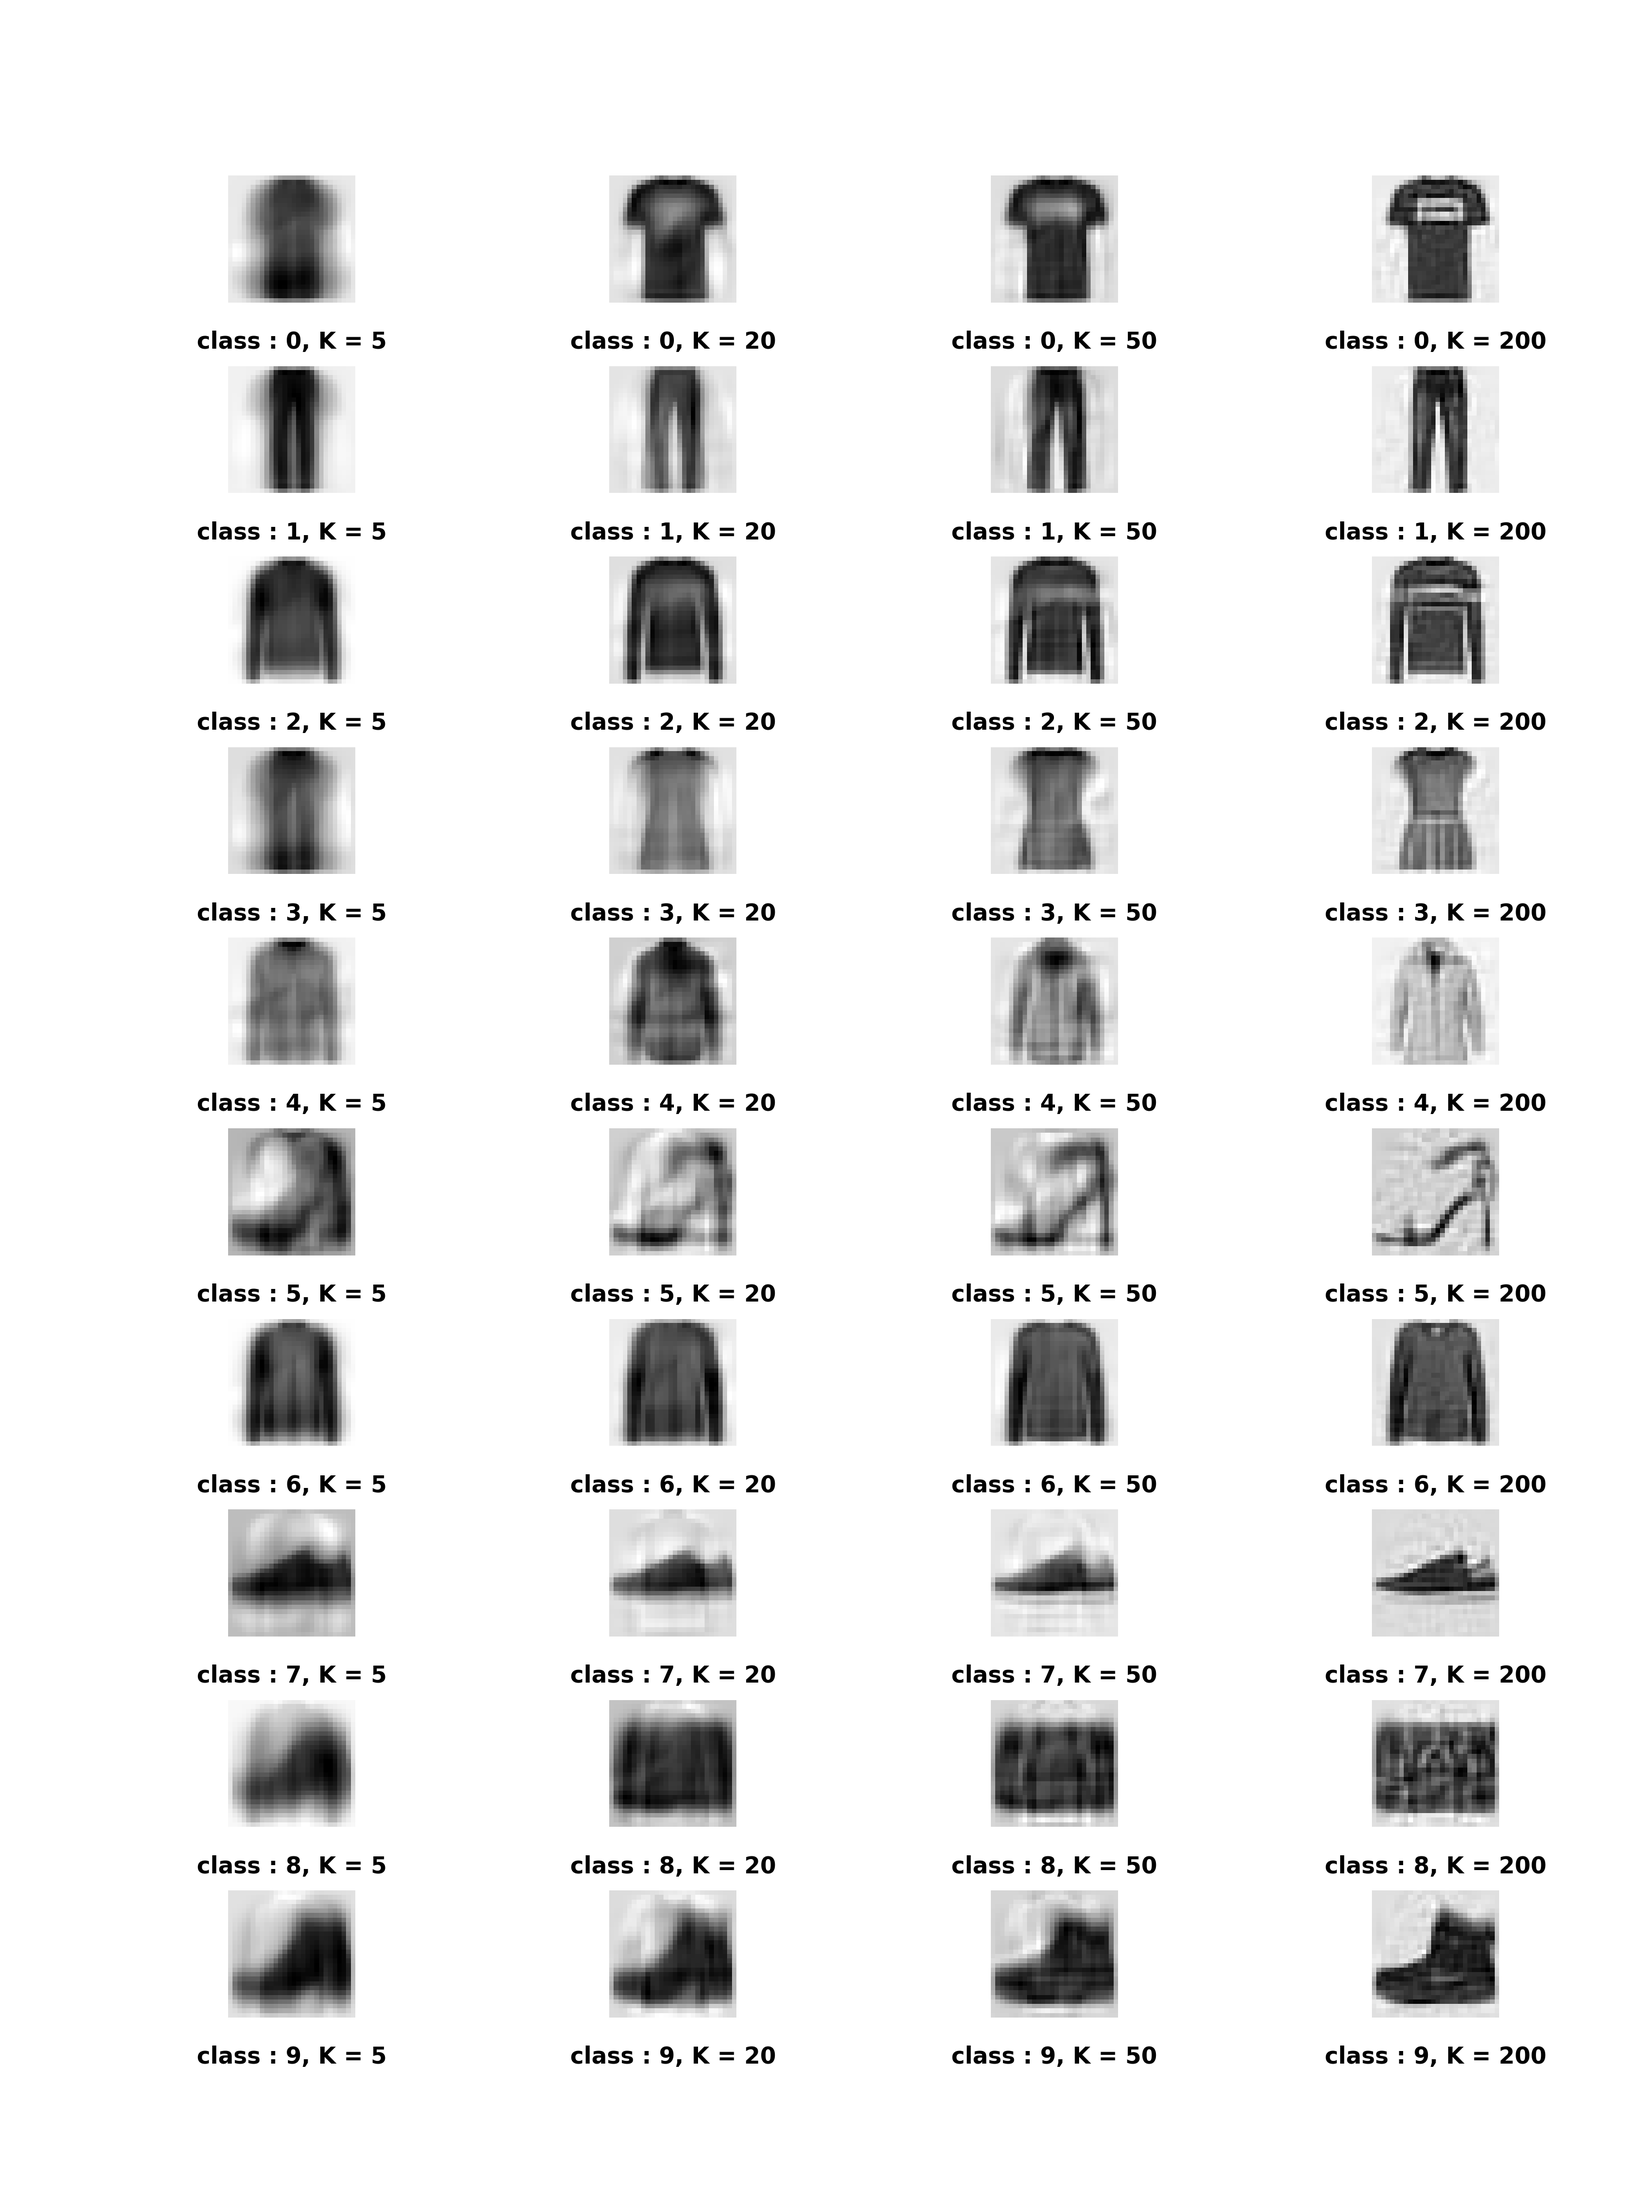
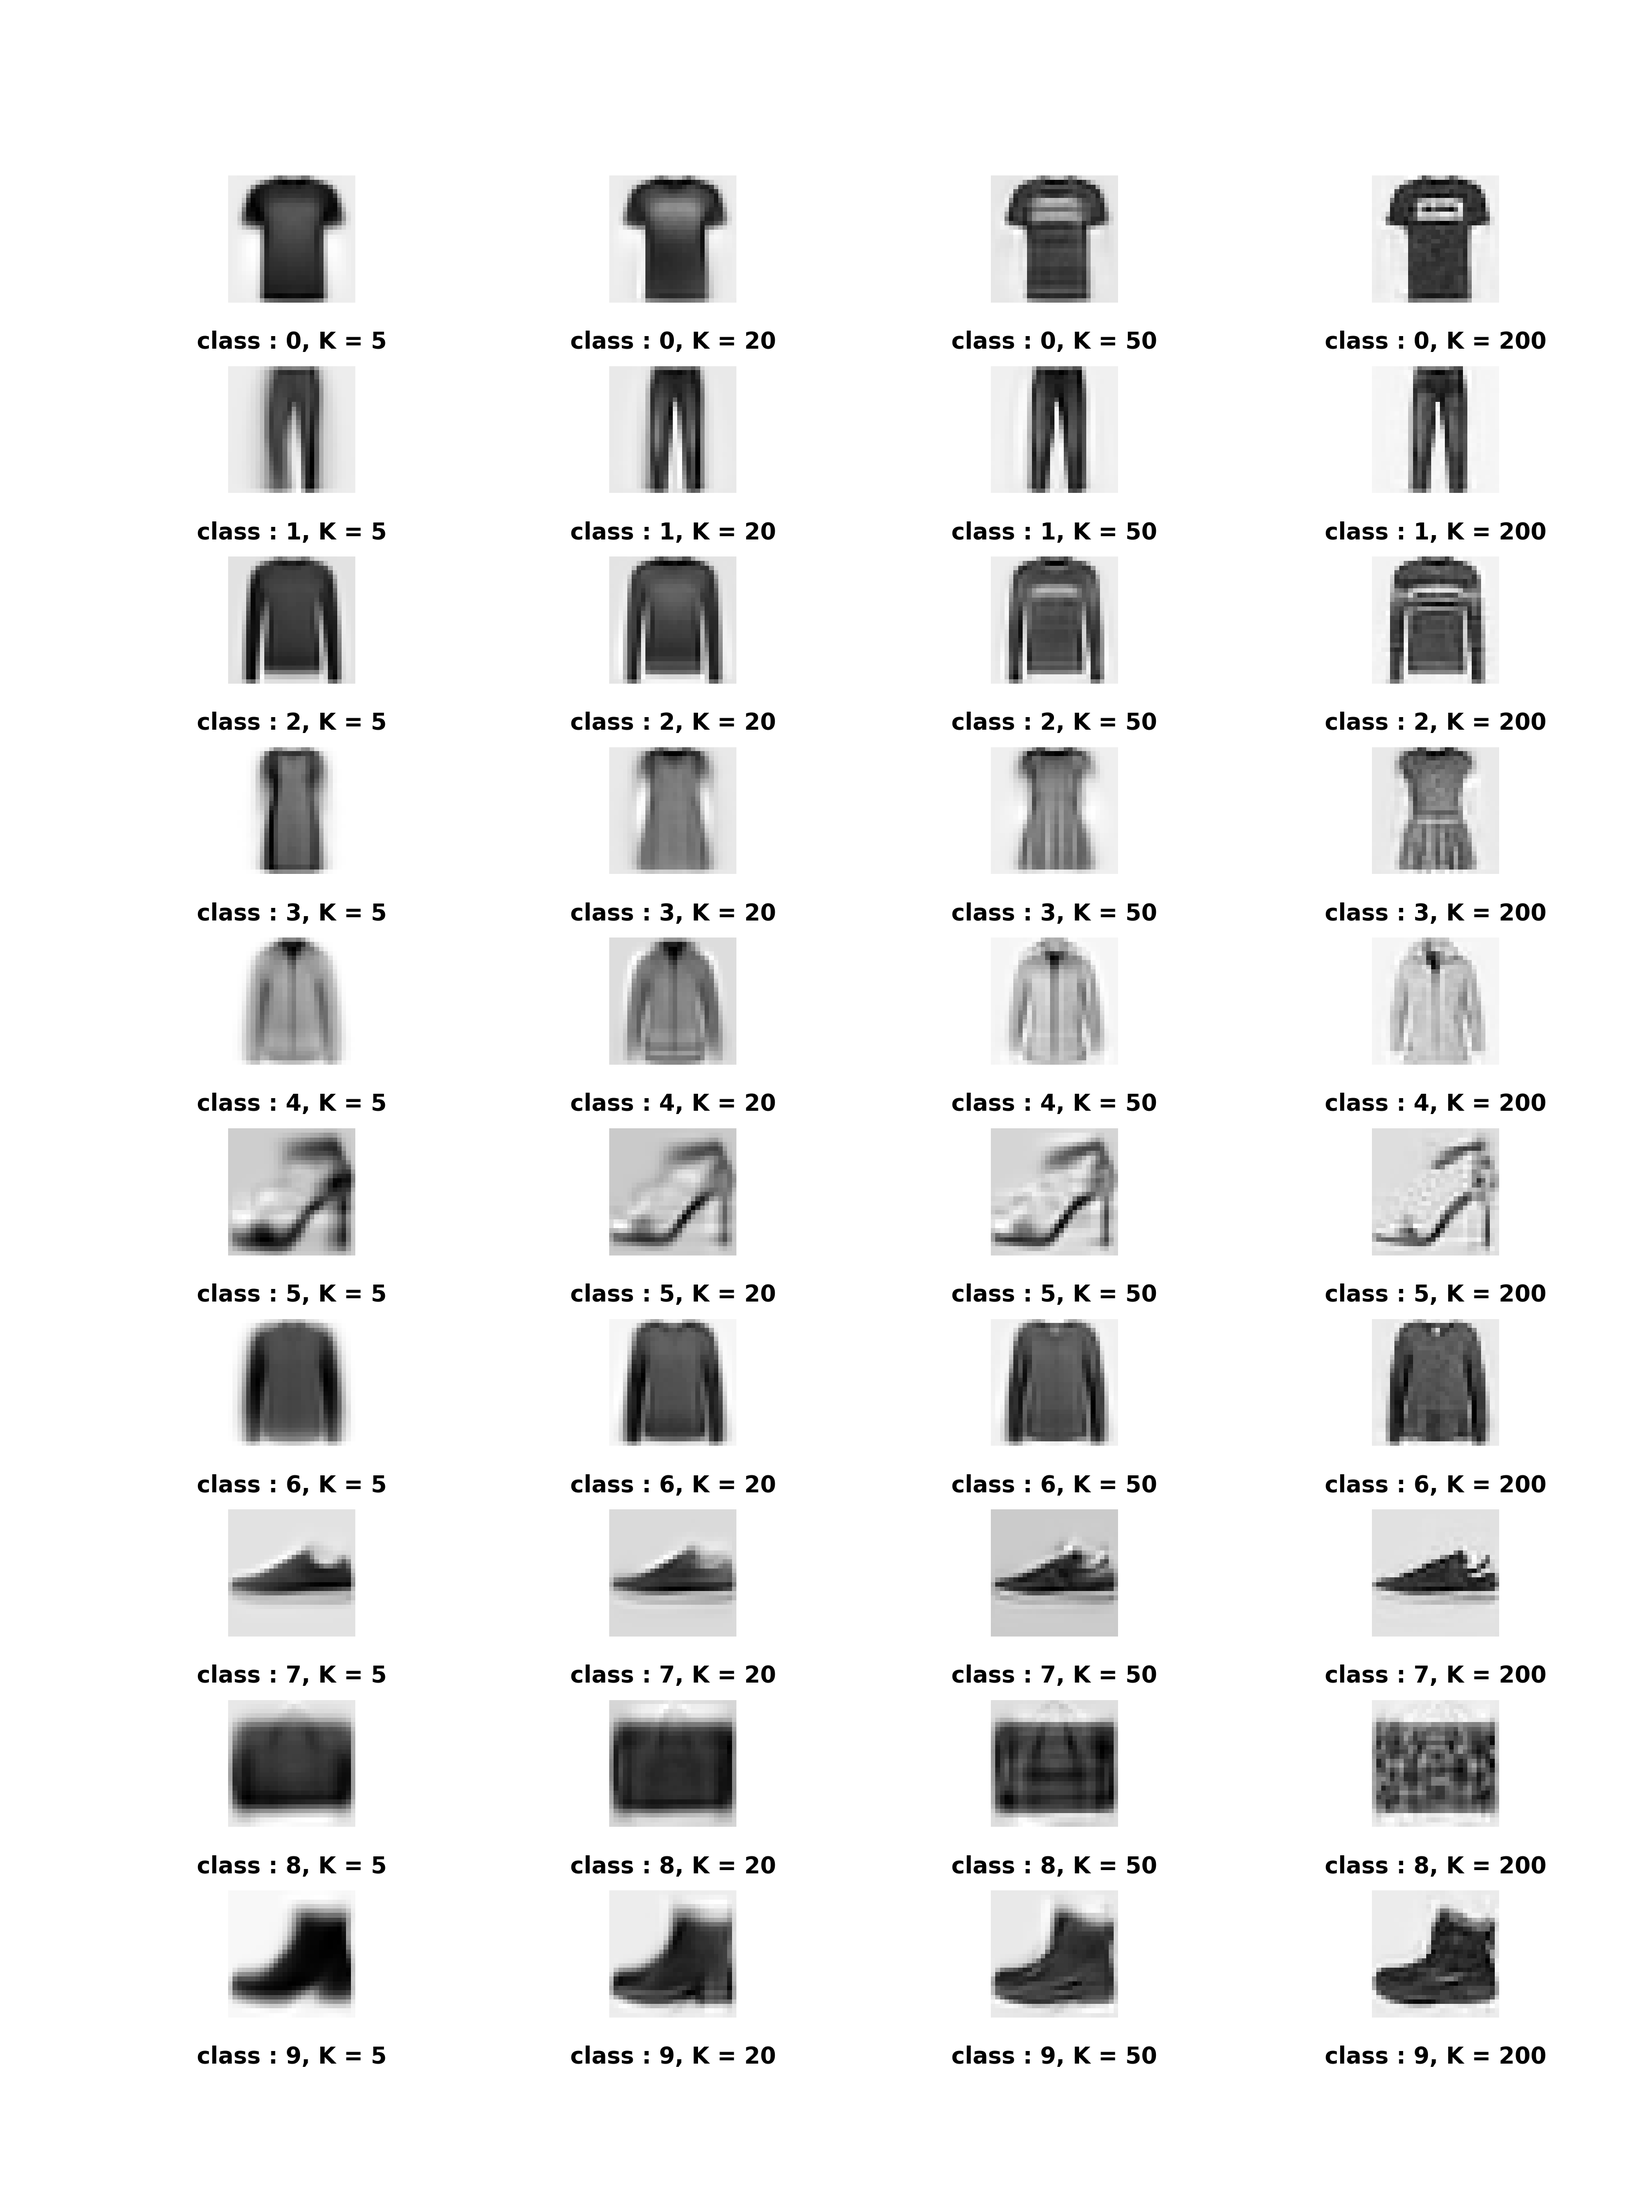
Add files via upload

diff --git a/IAML_CW2/iaml01cw2_q3.py b/IAML_CW2/iaml01cw2_q3.py
@@ -18,6 +18,7 @@ import matplotlib.pyplot as plt
 import seaborn as sns
 from iaml01cw2_helpers import *
 import os
+import pandas as pd
 
 from sklearn.cluster import KMeans
 from sklearn.decomposition import PCA
@@ -62,6 +63,7 @@ def iaml01cw2_q3_1():
 
 # Q3.2
 def iaml01cw2_q3_2():
+
     mean_vector = []
 
     for j in range(22):
@@ -70,42 +72,60 @@ def iaml01cw2_q3_2():
         mean_vector.append(list(temp.mean(axis = 0)))
     mean_vector = np.array(mean_vector) # mean vector of each class (22, 26)
 
-
-    pca = PCA(n_components=2)
+    kmeans = KMeans(n_clusters=22, random_state=1).fit(Xtrn)
+    centers = kmeans.cluster_centers_
     
 
-    kmeans = KMeans(n_clusters=22, random_state=1).fit(Xtrn)
-
+    pca = PCA(n_components=2)
     zz = pca.fit_transform(mean_vector) # PCA on mean vector 
-
-
-
-    centers = kmeans.cluster_centers_
     center_ = pca.transform(centers)
-    plt.figure(figsize=(10,10))
+    lang =[i for i in range(22)]
 
-
-
-
-    plt.scatter(center_[:, 0], center_[:, 1], c='blue', s= 1)
-    plt.scatter(zz[:, 0], zz[:, 1], c='red',s = 1)
-
+    # ------- plot --------#
+    plt.figure(figsize=(15,15))
+    plt.scatter(center_[:, 0], center_[:, 1], c='blue', label ='cluster centers', s = 12)
+    for i in range(center_.shape[0]):
+        plt.annotate(lang[i],xy = (center_[i, 0], center_[i, 1]),xytext = (center_[i, 0]+0.01, center_[i, 1]+0.01), color = 'blue', size = 16)
+    plt.scatter(zz[:, 0], zz[:, 1], c='red', label = 'mean vectors', s= 12)
+    for i in range(zz.shape[0]):
+        plt.annotate(lang[i],xy = (zz[i, 0], zz[i, 1]),xytext = (zz[i, 0]+0.01, zz[i, 1]+0.01), color = 'red', size = 16)
+    plt.xlabel('Principal Component 1', fontsize = 20)
+    plt.ylabel('Principal Component 2', fontsize = 20)
+    plt.legend()
     plt.savefig("IAML_CW2_Q3_2.png")
     plt.show()
 
 #
-iaml01cw2_q3_2()   # comment this out when you run the function
+#iaml01cw2_q3_2()   # comment this out when you run the function
 
 # Q3.3
 def iaml01cw2_q3_3():
+
+    # read file
+    file_path = os.path.join(os.getcwd(), 'data')
+    lang = pd.read_csv(file_path + '/languages.txt',header = None, sep= ' ')
+    lang_label = []
+    # add appropriate labels
+    for i in range(22):
+        if i <10:
+            lang_label.append(lang.iloc[i,2])
+        else:
+            lang_label.append(lang.iloc[i,1])
+
+    
+
+    
     mean_vector = []
+    
     for j in range(22):
         temp = Xtrn[np.where(Ytrn == j)]
         mean_vector.append(list(temp.mean(axis = 0)))
     mean_vector = np.array(mean_vector) # mean vector of each class (22, 26)
-    
+    plt.figure(figsize=(10,10))
     Z = sch.linkage(mean_vector, method =  'ward')
-    p = sch.dendrogram(Z, orientation='right')
+    p = sch.dendrogram(Z, orientation='right', labels= lang_label)
+    plt.xlabel("distance (Ward)", fontsize = 20)
+    plt.ylabel("Languages", fontsize = 20)
     plt.savefig('IAML_CW2_Q3_3.png')
     
     plt.show()
@@ -115,7 +135,23 @@ def iaml01cw2_q3_3():
 
 # Q3.4
 def iaml01cw2_q3_4():
-    kmeans = KMeans(n_clusters=3, random_state=1)
+
+    # read file
+    file_path = os.path.join(os.getcwd(), 'data')
+    lang = pd.read_csv(file_path + '/languages.txt',header = None, sep= ' ')
+    lang_label = []
+    # add appropriate labels
+    for i in range(22):
+        if i <10:
+            for k in range(3):
+                lang_label.append(lang.iloc[i,3] + ' ' + str(k))
+        else:
+            for k in range(3):
+                lang_label.append(lang.iloc[i,2] + '' + str(k))
+
+    print(lang_label)
+
+    kmeans = KMeans(n_clusters=3, random_state=1) # apply k-Means algorithm
     clusters = []
     for i in range(22):
         kmeans.fit(Xtrn[np.where(Ytrn == i)])
@@ -123,28 +159,34 @@ def iaml01cw2_q3_4():
             clusters.append(kmeans.cluster_centers_[j,:])
     clusters = np.array(clusters)
     print(clusters)
-    plt.figure(figsize=(20,20))
+    plt.figure(figsize=(13,5))
     Z = sch.linkage(clusters, method = 'ward')
-    p = sch.dendrogram(Z)
-    plt.savefig("Q3_4_ward.png")
+    p = sch.dendrogram(Z, labels=lang_label,leaf_rotation=45)
+    plt.xlabel('Language Cluster Centers', fontsize = 10)
+    plt.ylabel('distance (ward)', fontsize = 15)
+    plt.savefig("IAML_CW2_Q3_4_ward.png")
     plt.show()
     
-    plt.figure(figsize=(20,20))
+    plt.figure(figsize=(13,5))
     Z = sch.linkage(clusters, method = 'single')
-    p = sch.dendrogram(Z)
-    plt.savefig("Q3_4_single.png")
+    p = sch.dendrogram(Z, labels=lang_label,leaf_rotation=45)
+    plt.xlabel('Language Cluster Centers', fontsize = 10)
+    plt.ylabel('distance (single)', fontsize = 15)
+    plt.savefig("IAML_CW2_Q3_4_single.png")
     plt.show()
     
-    plt.figure(figsize=(20,20))
+    plt.figure(figsize=(13,5))
     Z = sch.linkage(clusters, method = 'complete')
-    p = sch.dendrogram(Z)
-    plt.savefig("Q3_4_complete.png")
+    p = sch.dendrogram(Z, labels=lang_label,leaf_rotation=45)
+    plt.xlabel('Language Cluster Centers', fontsize = 10)
+    plt.ylabel('distance (complete)', fontsize = 15)
+    plt.savefig("IAML_CW2_Q3_4_complete.png")
     plt.show()
     
 
 
 #
-#iaml01cw2_q3_4()   # comment this out when you run the function
+iaml01cw2_q3_4()   # comment this out when you run the function
 
 # Q3.5
 def iaml01cw2_q3_5():

diff --git a/IAML_CW2/iaml01cw2_q1.py b/IAML_CW2/iaml01cw2_q1.py
@@ -1,14 +1,5 @@
 
-##########################################################
-#  Python script template for Question 1 (IAML Level 10)
-#  Note that
-#  - You should not change the filename of this file, 'iaml01cw2_q1.py', which is the file name you should use when you submit your code for this question.
-#  - You should define the functions shown below in your code.
-#  - You can define function arguments (parameters) and returns (attributes) if necessary.
-#  - In case you define helper functions, do not define them here, but put them in a separate Python module file, "iaml01cw2_my_helpers.py", and import it in this script.
-#  - For those questions requiring you to show results in tables, your code does not need to present them in tables - just showing them with print() is fine.
-#  - You do not need to include this header in your submission
-##########################################################
+
 
 #--- Code for loading the data set and pre-processing --->
 import numpy as np
@@ -77,11 +68,11 @@ def iaml01cw2_q1_2():
         
         temp = []
         for j in range(record.shape[1] ):
-            mean_vec = mean_vec + Xtrn_nm[record[i][j],:]
+            mean_vec = mean_vec + Xtrn[record[i][j],:]
         mean_vec = mean_vec / record.shape[1]
         vector.append(mean_vec)
         for j in range(record.shape[1]):
-            a = np.linalg.norm(Xtrn_nm[record[i][j],:]-mean_vec) ### This is much faster than self-defined eucildean distance function
+            a = np.linalg.norm(Xtrn[record[i][j],:]-mean_vec) ### This is much faster than self-defined eucildean distance function
             temp.append(a)
         dis.append(temp)
     dis = np.array(dis) # ->distance (10, 6000)
@@ -175,6 +166,7 @@ def iaml01cw2_q1_4():
     
 
     x = [i for i in range(len(y))]
+    print(len(x))
     plt.plot(x,y)
     plt.xlabel("Number of Principal Compoents (N)")
     plt.ylabel("Cumulative explained variance ratio (R)")
@@ -196,9 +188,12 @@ def iaml01cw2_q1_4():
 # Q1.5
 def iaml01cw2_q1_5():
 
-    pca = PCA()
+    pca = PCA(n_components=10)
     pca.fit(Xtrn_nm)
-    a = pca.fit_transform(Xtrn_nm)
+    a = pca.transform(Xtrn_nm)
+    components = pca.components_
+    print(components.shape)
+
 
     f, axs = plt.subplots(2,5,figsize=(15,6))
 
@@ -206,10 +201,9 @@ def iaml01cw2_q1_5():
     for i in range(2):
         for j in range(5):
             plt.subplot(2, 5, 5* i + j +1,aspect='equal')
-            plt.scatter(a[:,j + 5*i], len(a[:,j + 5*i]) *[0])
-            plt.ylim(-10, 10)
-            plt.xlim(-10,13)
-            plt.title("PC {}".format(5 * i + j +1), y = -0.4)
+            plt.imshow(components[i * 5 +j].reshape((28,28)), cmap = 'gray_r')
+            plt.title("PC {}".format(5 * i + j +1))
+            plt.axis('off')
     plt.savefig("IAML_CW2_Q1_5.png") 
 
 #
@@ -233,17 +227,14 @@ def iaml01cw2_q1_6():
         temp =[]
         
         pca = PCA(n_components=ii)
-        x_reduced = pca.fit_transform(Xtrn_nm)
-        x_recovered = pca.inverse_transform(x_reduced)
-        #print(x_reduced.shape)
-        #print(x_recovered.shape)
-        for j in b:
-            temp.append(sqrt(mse(Xtrn_nm[j,:], x_recovered[j,:])))
+        for jj in range(10):
+            x_reduced = pca.fit_transform(Xtrn_nm[np.where(Ytrn == jj)])
+            x_recovered = pca.inverse_transform(x_reduced)
+            temp.append(sqrt(mse(Xtrn_nm[b[jj],:], x_recovered[0,:])))
         rmse.append(temp)
         
     rmse = np.array(rmse).T
     np.savetxt('Q1_6_ans.txt', rmse)
-
 
 #iaml01cw2_q1_6()   # comment this out when you run the function
 
@@ -265,14 +256,16 @@ def iaml01cw2_q1_7():
         count = count + 1
          
         pca = PCA(n_components=ii)
-        x_reduced = pca.fit_transform(Xtrn_nm)
-        x_recovered = pca.inverse_transform(x_reduced)
+
         count2 = 0
-        for j in b:
+
+        for jj in range(10):
+            x_reduced = pca.fit_transform(Xtrn_nm[np.where(Ytrn == jj)])
+            x_recovered = pca.inverse_transform(x_reduced)
             plt.subplot(10,4, (count -1) + 4 * count2+1)
-            plt.imshow((x_recovered[j,:] + Xmean).reshape((28,28)), cmap ="gray_r")
+            plt.imshow((x_recovered[0,:] + Xmean).reshape((28,28)), cmap ="gray_r")
             plt.axis('off')
-            plt.title("class : {}, K = {}".format(Ytrn[j] , ii), y = -0.4, fontsize=30,fontweight='bold')
+            plt.title("class : {}, K = {}".format(Ytrn[b[jj]] , ii), y = -0.4, fontsize=30,fontweight='bold')
             count2 = count2 + 1
 
     plt.subplots_adjust(top=0.92, bottom=0.08, left=0.10, right=0.95, hspace=0.5,
@@ -314,11 +307,8 @@ def iaml01cw2_q1_8():
     ax.legend(handles, labels, loc='upper right',fontsize = 20)
     plt.xlabel("Principal Component 1",fontsize = 20)
     plt.ylabel("Principal Component 2", fontsize = 20)
-    
     plt.tick_params(labelsize=20)
-    
     plt.savefig("IAML_CW2_Q1_8.png")
-
     plt.show()
 #
-iaml01cw2_q1_8()   # comment this out when you run the function
+#iaml01cw2_q1_8()   # comment this out when you run the function

diff --git a/IAML_CW2/iaml01cw2_q2.py b/IAML_CW2/iaml01cw2_q2.py
@@ -109,7 +109,7 @@ def iaml01cw2_q2_3():
     plt.show()
     
 #
-iaml01cw2_q2_3()   # comment this out when you run the function
+#iaml01cw2_q2_3()   # comment this out when you run the function
 
 # Q2.4
 def iaml01cw2_q2_4():
